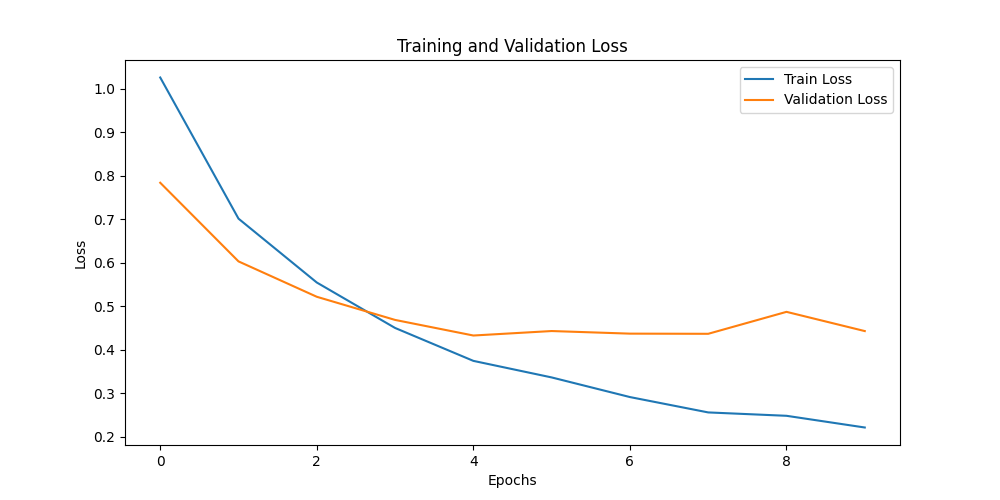
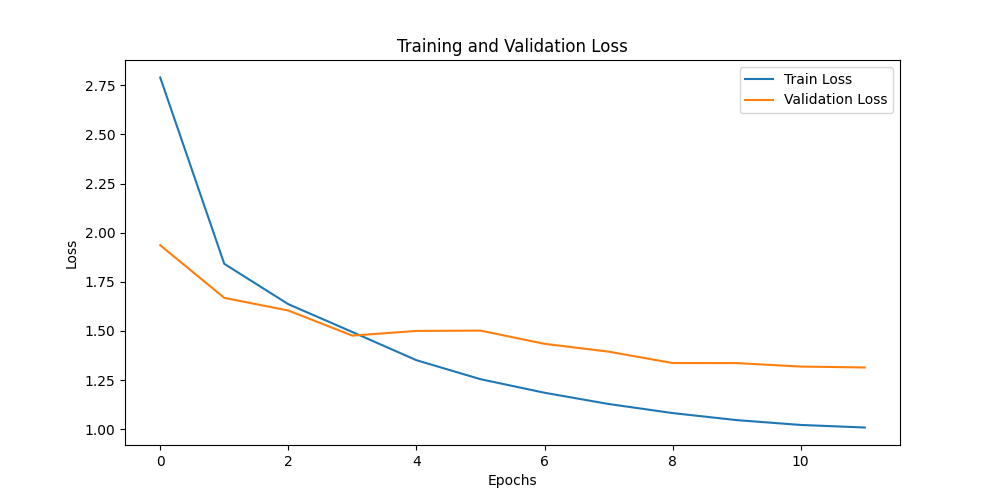
Add analysis API and data audit artifacts
Expose model predictions through a FastAPI endpoint, add aspect-polarity metadata, and include data audit and distribution artifacts alongside refreshed evaluation plots.

diff --git a/src/api_service.py b/src/api_service.py
@@ -1,4 +1,36 @@
-# Trong phần khởi động:
+import sys
+from pathlib import Path
+
+# Đảm bảo Python luôn tìm thấy các module trong thư mục src/ dù chạy lệnh từ thư mục gốc
+SRC_DIR = Path(__file__).resolve().parent
+if str(SRC_DIR) not in sys.path:
+    sys.path.insert(0, str(SRC_DIR))
+
+from fastapi import FastAPI, HTTPException
+from fastapi.middleware.cors import CORSMiddleware
+from pydantic import BaseModel
+import uvicorn
+import logging
+from predict_cli import load_environment, predict
+
+# Khởi tạo ứng dụng FastAPI
+app = FastAPI(
+    title="Hotel Comment AI API",
+    description="API phân tích cảm xúc và khía cạnh bình luận khách sạn bằng PhoBERT",
+    version="1.0.0"
+)
+
+# Thiết lập CORS để kết nối với Spring Boot / Vue Frontend
+app.add_middleware(
+    CORSMiddleware,
+    allow_origins=["*"],
+    allow_credentials=True,
+    allow_methods=["*"],
+    allow_headers=["*"],
+)
+
+# Nạp AI vào RAM/VRAM 1 lần duy nhất khi server khởi động
+print("Đang khởi động Server và nạp mô hình AI...")
 try:
     model, tokenizer, device, id2sentiment, id2aspect, id2polarity, abbrev_dict = load_environment()
     print("API Server: Đã nạp mô hình thành công. Sẵn sàng nhận Request!")
@@ -6,24 +38,48 @@ except Exception as e:
     model = None
     logging.error(f"Lỗi nạp mô hình, hãy đảm bảo bạn đã train AI trước: {e}")
 
-# Trong endpoint /api/analyze:
+
+# Định dạng dữ liệu đầu vào (Request Body)
+class CommentRequest(BaseModel):
+    text: str
+
+
+# Định dạng dữ liệu đầu ra (Response)
+class CommentResponse(BaseModel):
+    raw_text: str
+    normalized_text: str
+    final_label: str
+    aspect_labels: list[str]
+
+
 @app.post("/api/analyze", response_model=CommentResponse)
 def analyze_comment(request: CommentRequest):
+    """
+    Endpoint nhận bình luận và trả về kết quả phân tích.
+    """
     if not request.text.strip():
         raise HTTPException(status_code=400, detail="Văn bản không được để trống")
     if model is None:
         raise HTTPException(status_code=503, detail="Mô hình AI chưa được nạp")
-    
+
     try:
         cleaned, sentiment, aspects = predict(
             request.text, model, tokenizer, device, id2sentiment, id2aspect, id2polarity, abbrev_dict
         )
+
         aspects_list = [asp for asp, prob in aspects]
+
         return {
             "raw_text": request.text,
             "normalized_text": cleaned,
             "final_label": sentiment,
             "aspect_labels": aspects_list
         }
+
     except Exception as e:
         raise HTTPException(status_code=500, detail=f"Lỗi xử lý AI: {str(e)}")
+
+
+if __name__ == "__main__":
+    # Khởi chạy server tại cổng 8000
+    uvicorn.run(app, host="0.0.0.0", port=8000)

diff --git a/src/predict_cli.py b/src/predict_cli.py
@@ -131,7 +131,7 @@ def main():
     model, tokenizer, device, id2sentiment, id2aspect, id2polarity, abbrev_dict = load_environment()
     
     print("\n" + "="*50)
-    print("✨ HỆ THỐNG AI ĐÃ SẴN SÀNG ✨")
+    print("HỆ THỐNG AI ĐÃ SẴN SÀNG ✨")
     print("Mô hình đang chạy trên:", "GPU" if device.type == 'cuda' else "CPU 🐢")
     print("Nhập 'q' hoặc 'quit' để thoát.")
     print("="*50 + "\n")
@@ -163,8 +163,8 @@ def main():
                 text, model, tokenizer, device, id2sentiment, id2aspect, id2polarity, abbrev_dict
             )
             
-            print(f"  => 🎯 Sắc thái chung: [{sentiment.upper()}]")
-            print("  => 🔍 Chi tiết:")
+            print(f"  => Sắc thái chung: [{sentiment.upper()}]")
+            print("  => Chi tiết:")
             if not aspects:
                 print("     (Không nhận diện được khía cạnh)")
             for asp, prob in aspects:

diff --git a/src/train_evaluate.py b/src/train_evaluate.py
@@ -429,7 +429,7 @@ def train(eval_only=False):
             patience_counter = 0
             BEST_MODEL_FILE.parent.mkdir(parents=True, exist_ok=True)
             torch.save(model.state_dict(), BEST_MODEL_FILE)
-            print(f"  -> 💾 Đã lưu Best Model mới tại Epoch {best_epoch} (Combined Score: {best_score*100:.2f}%)")
+            print(f"  -> Đã lưu Best Model mới tại Epoch {best_epoch} (Combined Score: {best_score*100:.2f}%)")
         else:
             patience_counter += 1
             print(

diff --git a/src/check_data.py b/src/check_data.py
@@ -279,7 +279,7 @@ def run_data_audit():
     chart_path = METRICS_DIR / "data_distribution.png"
     plt.savefig(chart_path, dpi=300)
     plt.close()
-    print(f"📊 Đã lưu biểu đồ phân phối dữ liệu tại: {chart_path}")
+    print(f"Đã lưu biểu đồ phân phối dữ liệu tại: {chart_path}")
 
 
 if __name__ == "__main__":
